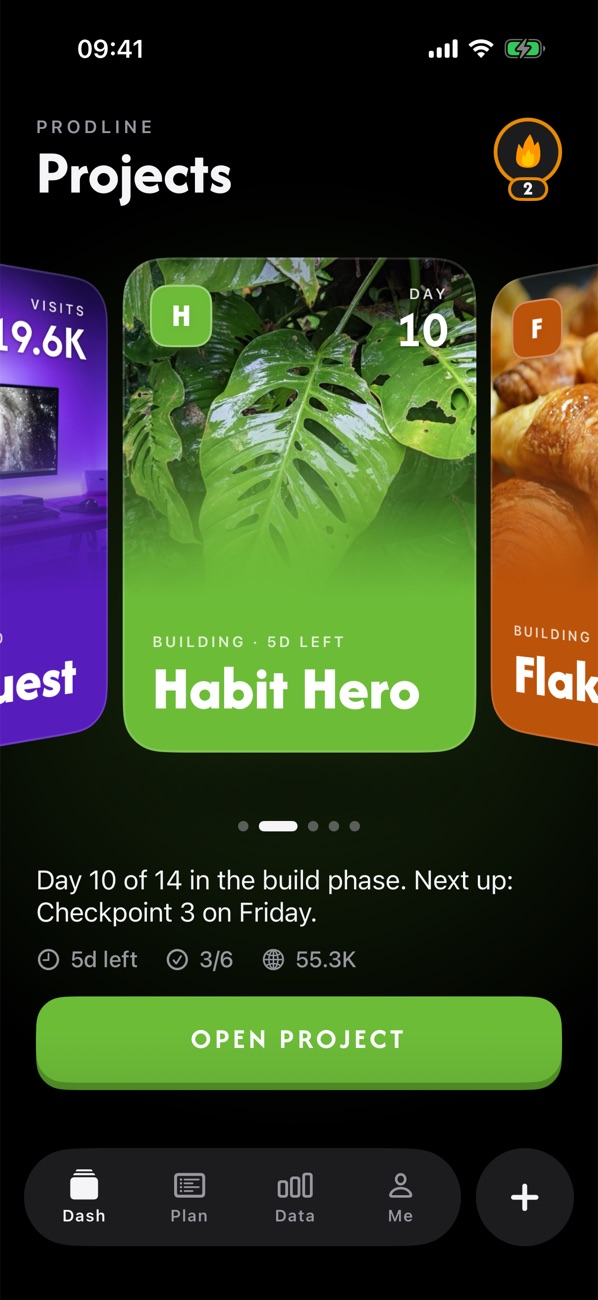
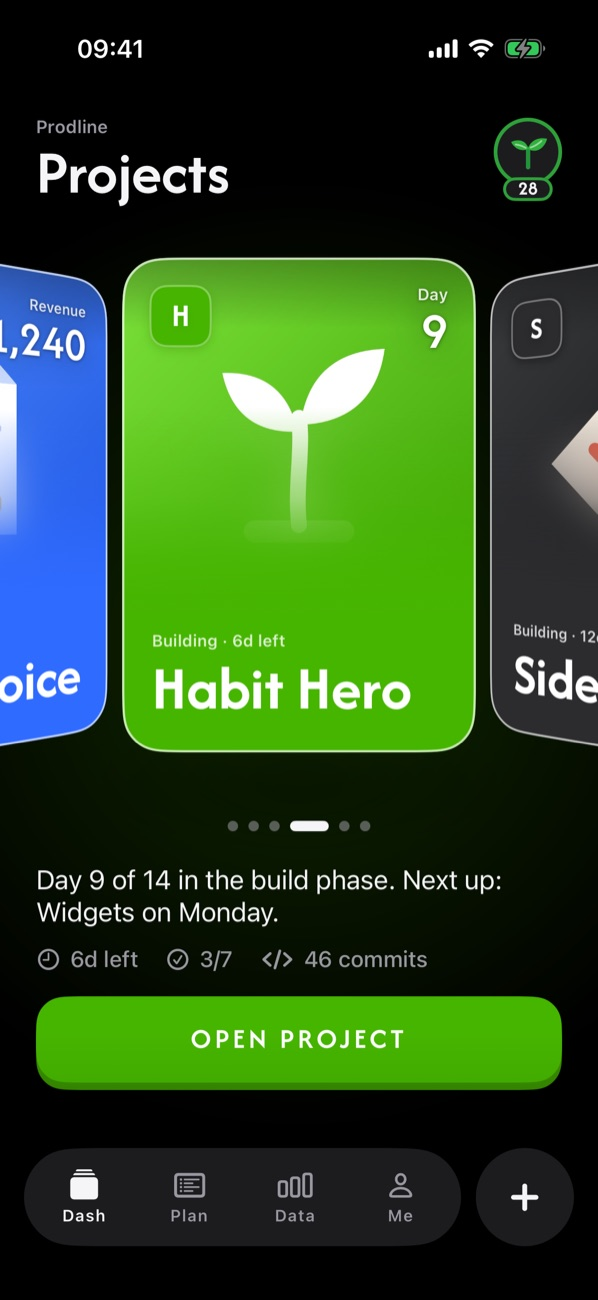
Keep the green accent; landing screenshots show the sprout
Removes the debug accent switcher. New Dash, Plan and Data shots for the landing page (dark, store demo set).

diff --git a/web/index.html b/web/index.html
@@ -82,7 +82,7 @@
           <p>Two weeks, a few checkpoints, a handful of goals each. Due on the days you actually work, even if that's only Tuesdays.</p>
         </div>
         <div class="flow-art" data-reveal style="--d:.1s">
-          <figure class="phone big" style="--r:-4deg"><img src="shots/plan.jpg?v=2" alt="The Plan tab: streak, XP, the week ahead and today's checkpoints" width="600" height="1304" loading="lazy"></figure>
+          <figure class="phone big" style="--r:-4deg"><img src="shots/plan.jpg?v=3" alt="The Plan tab: streak, XP, the week ahead and today's checkpoints" width="600" height="1304" loading="lazy"></figure>
           <div class="stk pill" style="top:9%;left:-6%;--r:-6deg;--p:.10"><span class="ico cal"></span>Checkpoint 3 · due Fri</div>
           <div class="stk goals" style="top:44%;right:-14%;--r:4deg;--p:.18">
             <p><i></i>Onboarding flow live</p>
@@ -99,7 +99,7 @@
           <p>Tick one goal a day and the sprout keeps growing. Push a commit and it counts on its own, no app open needed.</p>
         </div>
         <div class="flow-art" data-reveal style="--d:.1s">
-          <figure class="phone big" style="--r:4deg"><img src="shots/dash.jpg?v=2" alt="Dash: your projects as cards, with the streak in the corner" width="600" height="1304" loading="lazy"></figure>
+          <figure class="phone big" style="--r:4deg"><img src="shots/dash.jpg?v=3" alt="Dash: your projects as cards, with the streak in the corner" width="600" height="1304" loading="lazy"></figure>
           <div class="stk sprout" style="top:6%;right:-10%;--r:7deg;--p:.14">
             <svg viewBox="0 0 24 24"><path class="stem" d="M11.6 22.4V12.4"/><path d="M11.6 12.6C10.2 8.5 6.7 7.1 2.6 7.9c.8 3.9 4.6 6 9 4.7z"/><path d="M11.6 12.3c.7-4.8 5-7.7 10.2-7-.6 4.9-4.8 8.1-10.2 7z"/></svg>
             <span><b>12</b>day streak</span>
@@ -116,7 +116,7 @@
           <p>Sales, visits and downloads arrive by themselves. On day 14 you make the call: keep it, pivot it, or let it go.</p>
         </div>
         <div class="flow-art" data-reveal style="--d:.1s">
-          <figure class="phone big" style="--r:-3deg"><img src="shots/data.jpg?v=2" alt="Insights: revenue per day across projects" width="600" height="1304" loading="lazy"></figure>
+          <figure class="phone big" style="--r:-3deg"><img src="shots/data.jpg?v=3" alt="Insights: revenue per day across projects" width="600" height="1304" loading="lazy"></figure>
           <div class="stk note" style="top:7%;left:-14%;--r:-4deg;--p:.12">
             <span class="app"><img src="mark-light.svg" alt=""></span>
             <span><b>New sale · Habit Hero</b><small>+$29.00 via Stripe</small></span>

diff --git a/prodline/Views/SchemeEditor.swift b/prodline/Views/SchemeEditor.swift
@@ -85,7 +85,6 @@ struct MeView: View {
     @Environment(GitHubService.self) private var github
     @Query private var projects: [Project]
     @AppStorage("mockServerURL") private var mockServerURL = "http://127.0.0.1:8787"
-    @AppStorage(Theme.brandKey) private var brandHex = 0
     @State private var finder = MockServerFinder()
     @State private var demoVisible = false
     @Environment(\.isActiveTab) private var isActiveTab
@@ -451,40 +450,10 @@ struct MeView: View {
         .card()
     }
 
-    /// Accent propositions to compare: XP, the streak and a new project's first color switch at once.
-    private var accentPicker: some View {
-        VStack(alignment: .leading, spacing: 8) {
-            Text("Accent color").font(.ui(14, .semibold)).foregroundStyle(Theme.ink)
-            ScrollView(.horizontal, showsIndicators: false) {
-                HStack(spacing: 12) {
-                    ForEach(Theme.brandOptions, id: \.hex) { option in
-                        let selected = Theme.brandHex == option.hex
-                        Button {
-                            Haptics.select()
-                            brandHex = option.hex == Theme.brandGreen ? 0 : option.hex
-                        } label: {
-                            VStack(spacing: 6) {
-                                Circle().fill(Color(hex: option.hex))
-                                    .frame(width: 40, height: 40)
-                                    .padding(3)
-                                    .overlay(Circle().strokeBorder(selected ? Theme.ink : .clear, lineWidth: 2))
-                                Text(option.name).font(.ui(12, selected ? .semibold : .regular))
-                                    .foregroundStyle(selected ? Theme.ink : Theme.secondary)
-                            }
-                        }
-                        .buttonStyle(PressableStyle(scale: 0.94))
-                    }
-                }
-            }
-        }
-        .padding(.bottom, 4)
-    }
-
     /// Debug builds only (see body): mock server, demo projects and replays.
     private var developerCard: some View {
         VStack(alignment: .leading, spacing: 12) {
             SectionTitle("Demo & testing")
-            accentPicker
             Text("Run `python3 MockProject/server.py --host 0.0.0.0` on your Mac, on the same Wi-Fi as this phone. The address fills in by itself once the server is found.")
                 .font(.ui(14)).foregroundStyle(Theme.secondary)
                 .fixedSize(horizontal: false, vertical: true)

diff --git a/Shared/DesignCore.swift b/Shared/DesignCore.swift
@@ -98,34 +98,18 @@ enum Theme {
     /// Dark text that stays dark in both modes, for bright fills like yellow.
     static let inkFixed = Color(hex: 0x1C1C1E)
 
-    /// The brand color: XP, the streak, and a new project's first color. The green of the logo, launch screen
-    /// and App Store art; debug builds can try others (Me → Demo & testing → Accent color).
-    static var brandHex: Int {
-        #if DEBUG
-        let picked = UserDefaults.standard.integer(forKey: brandKey)
-        return picked == 0 ? brandGreen : picked
-        #else
-        return brandGreen
-        #endif
-    }
-    static var brand: Color { Color(hex: brandHex) }
-    static let brandGreen = 0x30B03C
-    static let brandKey = "debug.brandHex"
-    /// Accents to try: the green, and the warm tones of the night-flight photo on the landing page
-    /// (the engine's glowing rim, the wingtip light, the city below, the dusk clouds, the embers).
-    static let brandOptions: [(name: String, hex: Int)] = [
-        ("Green", brandGreen), ("Engine", 0xE5562B), ("Wingtip", 0xF2792E),
-        ("City lights", 0xE89A3C), ("Dusk", 0xC9674B), ("Ember", 0xC2402A),
-    ]
+    /// The brand green (logo, launch screen, App Store art): XP, the streak, and a new project's first color.
+    static let brandHex = 0x30B03C
+    static let brand = Color(hex: brandHex)
     static let flame = Color(hex: 0xFF9600)
     static let success = Color(hex: 0x34C759)
     static let danger = Color(hex: 0xFF3B30)
 
     /// Accent choices when a project has no cover photo.
-    static var swatches: [Int] { [
+    static let swatches: [Int] = [
         Theme.brandHex, 0x00B894, 0x1CB0F6, 0x5B5BF0, 0xA35CFF,
         0xFF5FA2, 0xFF4B4B, 0xFF9600, 0xFFC800, 0x3C3C43,
-    ] }
+    ]
 }
 
 /// A project's color system, derived from one base color.

diff --git a/prodline/Views/RootView.swift b/prodline/Views/RootView.swift
@@ -13,7 +13,6 @@ struct RootView: View {
     @State private var celebration = CelebrationCenter()
     /// The archived animated splash, only when replayed from Me → Demo & testing.
     @State private var showLaunch = false
-    @AppStorage(Theme.brandKey) private var brandHex = 0
     /// Cold start: the logo for a moment, then it blurs away while the app sharpens in (2 s in all).
     @State private var showSplash = LaunchGate.shouldShow
     @State private var reveal: Double = LaunchGate.shouldShow ? 0 : 1
@@ -62,7 +61,6 @@ struct RootView: View {
             if let profile = profiles.first {
                 if profile.onboarded {
                     MainShell(profile: profile)
-                        .id(brandHex)   // a new accent (debug) redraws everything in it
                         .transition(.opacity)
                 } else {
                     OnboardingView(profile: profile)

diff --git a/ProdlineMac/MacRootView.swift b/ProdlineMac/MacRootView.swift
@@ -20,8 +20,6 @@ struct MacRootView: View {
     @State private var showSplash = true
     @State private var reveal: Double = 0
 
-    @AppStorage(Theme.brandKey) private var brandHex = 0
-
     var body: some View {
         ZStack {
             Theme.background.ignoresSafeArea()
@@ -29,7 +27,6 @@ struct MacRootView: View {
             // since it syncs and the iPhone still shows its onboarding on first launch.)
             if let profile = profiles.first {
                 MacShell(profile: profile)
-                    .id(brandHex)   // a new accent (debug) redraws everything in it
             }
         }
         // The streak and ship moments and the confetti use the whole window; banners pop up bottom right

diff --git a/Shared/Sprout.swift b/Shared/Sprout.swift
@@ -1,9 +1,9 @@
 import SwiftUI
 
-/// What the streak looks like: a sprout with the green brand color, the flame (in the accent) with a warm one.
+/// What the streak looks like. The flame is kept whole (FlameShape, StreakOverlay); switch back here.
 enum StreakLook {
     case flame, sprout
-    static var current: StreakLook { Theme.brandHex == Theme.brandGreen ? .sprout : .flame }
+    static let current: StreakLook = .sprout
 
     var color: Color { Theme.brand }
 }
